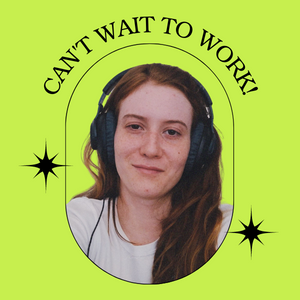
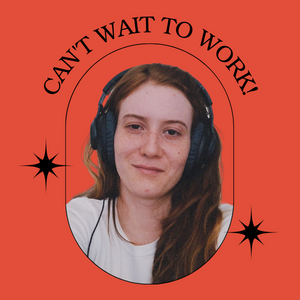
fix: change frontpage colors for vintage palette

diff --git a/css/section.css b/css/section.css
@@ -58,10 +58,10 @@
 
 .main-button {
     align-self: center;
-    background-color: black;
+    background-color: #586794;
     border-radius: 0.4em;
     box-sizing: border-box;
-    color: white;
+    color: black;
     cursor: pointer;
     display: inline-block;
     margin: 0 0.3em 1em 0.3em;
@@ -70,23 +70,23 @@
 }
 
 .main-button:hover {
-    background-color: #B5FF47;
+    background-color: #47815A;
     border: 0.05em solid black;
     box-shadow: 0.5em 0.4em black;
-    color: black;
+    color: whitesmoke;
     transition: all 0.2s ease-in;
 }
 
 #abstract {
-    box-shadow: 10px 8px #FFF200, 20px 18px black;
+    box-shadow: 10px 8px #576793, 20px 18px black;
 }
 
 #recent-work {
-    box-shadow: 10px 8px #b300b3, 20px 18px black;
+    box-shadow: 10px 8px #D9A97D, 20px 18px black;
 }
 
 #three {
-    box-shadow: 10px 8px #004efe, 20px 18px black;
+    box-shadow: 10px 8px #E24E3A, 20px 18px black;
 }
 
 #about-icons {

diff --git a/index.html b/index.html
@@ -116,7 +116,7 @@
                                     <h2>Ubirits</h2>
                                     <p>A beer delivery app, backend and frontend. Built within a two week bootcamp with other three partners. We learned how to work as a team and used Kanban to organize our tasks. It's created with JavaScript, React, Reactstrap for styling and Sequelize for managing the database using MVC architecture.</p>
                                     <a href="https://github.com/lorismilloni/ubirits" target="_blank">
-                                        <div class="main-button slider-button" id="slider-button-one">
+                                        <div class="main-button" id="slider-button-one">
                                             Learn More
                                         </div>
                                     </a>

diff --git a/css/slider.css b/css/slider.css
@@ -24,14 +24,13 @@
 }
 
 #slider-button-one {
-    background-color: #B300B3;
+    background-color: #D9A97D;
     border: 0.1em solid black;
 }
 
 #slider-button-two {
-    background-color: #B5FF47;
+    background-color: #D9A97D;
     border: 0.1em solid black;
-    color: black;
 }
 
 .slide {
@@ -45,7 +44,7 @@
 }
 
 .slide-arrow {
-    background-color: #FFF200;
+    background-color: #47815A;
     border: 0.1em solid black;
     border-radius: 2rem;
     bottom: 0;
@@ -66,7 +65,7 @@
 
 #slide-arrow-prev:hover {
     background-color: black;
-    border: 0.2em solid white;
+    border: 0.1em solid white;
     color: white;
     transition: all 0.14s;
 }

diff --git a/css/header.css b/css/header.css
@@ -9,10 +9,10 @@
 }
 
 .header-item {
-    background-color: #FFF200;
+    background-color: #47815A;
     border: 0.3em solid black;
     box-sizing: border-box;
-    color: black;
+    color: whitesmoke;
     display: inline-block;
     font-weight: 500;
     margin: 0.10em;
@@ -21,14 +21,14 @@
 }
 
 .header li:hover {
-    background-color: #004efe;
+    background-color: #0E5E6F;
     box-shadow: 0.5em 0.4em black;
     color: white;
     transition: background-color 0.2s ease-in, color 0.2s ease-in;
 }
 
 .header-item a {
-    color: black;
+    color: whitesmoke;
     text-decoration: none;
 }
 

diff --git a/css/footer.css b/css/footer.css
@@ -1,8 +1,8 @@
 .footer {
-    background-color: black;
-    border: 4px solid #FFF200;
+    background-color: #586794;
+    border: 4px solid black;
     box-shadow: 10px 10px black;
-    color: #FFF200;
+    color: black;
     display: flex;
     flex-direction: row;
     justify-content: center;
